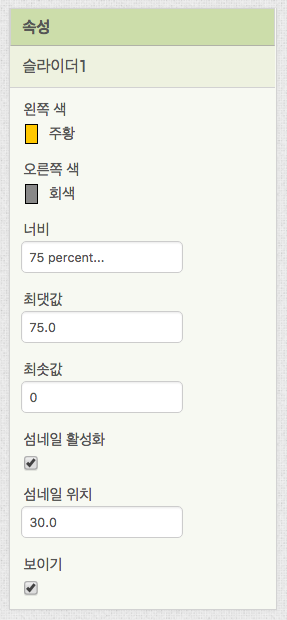
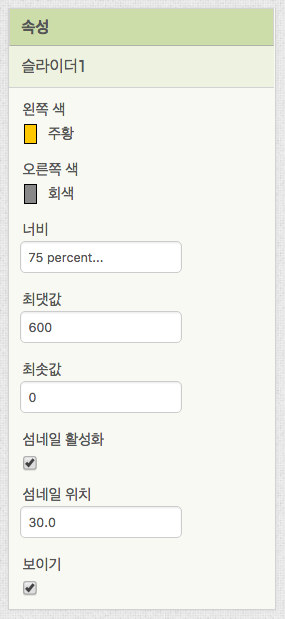
타이머 앱 디자이너 에디터 완료/블록 에디터 초기화 블록 완료

diff --git a/타이머 앱 만들기.md b/타이머 앱 만들기.md
@@ -48,11 +48,79 @@
 6. 슬라이더 컴포넌트를 추가하겠습니다. 팔레트 창의 [사용자 인터페이스] 목록에서 [슬라이더]를 끌어 뷰어 창에 놓습니다. 이 앱에서 슬라이더는 하나 뿐이므로 컴포넌트 이름을 굳이 바꾸지 않아도 됩니다.  
    ![](img/timer_06.png)
 
-7. 슬라이더의 속성을 수정하겠습니다. **너비**는 75퍼센트, **최댓값**은 600, **최솟값**은 0으로 입력합니다.  
+7. 슬라이더의 속성을 수정하겠습니다. **너비**는 75퍼센트, **최댓값**은 600, **최솟값**은 0으로 입력합니다. 최댓값은 슬라이더 섬네일(슬라이더 손잡이)을 왼쪽 끝으로 밀었을 때의 값이고 최솟값은 오른쪽 끝으로 밀었을 때의 값을 의미합니다.  
    ![](img/timer_07.png)
 
-8.  
+8. 다음은 타이머를 시작할 시작 버튼을 추가합니다. 팔레트 창의 [사용자 인터페이스] 목록에서 [버튼]을 찾아 뷰어창에 끌어다 놓습니다. 그리고 추가한 버튼 컴포넌트의 이름을 "시작버튼"으로 수정합니다. 
+   ![](img/timer_08.png)
 
-   
+9. 버튼의 속성을 수정합니다. 버튼의 **배경색**은 흰색, **글꼴 굵게**를 체크, **글꼴 크기** 20,  **텍스트**를 "시작"이라고 입력하고 마지막으로 **텍스트 색상**을 어두운 회색으로 설정합니다.  
+   ![](img/timer_09.png)
 
-   
+10. 타이머 기능을 사용하기 위해서 [시계] 컴포넌트를 가져오겠습니다. 팔레트 창 아래 [센서] 목록에 있는 [시계] 컴포넌트를 찾아 뷰어창에 드래그 합니다. [시계] 컴포넌트는 **보이지 않는 컴포넌트**라서 뷰어 창 안에 나타나지 않고 대신 아래에 별도로 표시됩니다. 그리고 컴포넌트 창에도 제대로 [시계] 컴포넌트가 추가된 것을 볼 수 있습니다.  
+ ![](img/timer_10.png)
+
+11. 이번에는 [소리] 컴포넌트를 추가합니다. 소리 컴포넌트는 팔레트 창의 [미디어] 목록에서 찾을 수 있습니다. [소리] 컴포넌트를 뷰어 창에 끌어다 놓습니다. [소리] 컴포넌트도 [시계] 컴포넌트와 마찬가지로 **보이지 않는 컴포넌트**입니다.  
+    ![](img/timer_11.png)
+
+12. 추가한 소리 컴포넌트가 어떤 소리를 내게 할 것인지 설정하겠습니다. 추가한 "소리1" 컴포넌트를 선택하고 속성 창을 봅니다. **소스**항목이 "없음…"으로 표시되어 있습니다. 이곳을 클릭합니다. 그리고 [파일 올리기…] 버튼을 눌러 새로 뜨는 창에서 [Choose File] 버튼을 눌러 원하는 소리 파일을 찾아준 다음 [확인] 버튼을 누릅니다.  
+    ![](img/timer_12.png) ![](img/timer_12a.png)
+
+13. 필요한 컴포넌트는 모두 추가하였고 미디어 파일도 준비가 되었습니다. 그런데 한 가지 더 설정해야 하는 것이 있습니다. 뷰어에 추가된 컴포넌트들이 모두 왼쪽 상단에 몰려있는데, 이것을 화면 가운데에 정렬 하고자 합니다. 컴포넌트 창에서 추가한 컴포넌트들을 감싸고 있는 [Screen 1]을 선택하여 속성 창을 열어봅니다. 여러 항목들 중 **수평 정렬**과 **수직 정렬** 항목을 각각 "중앙"과 "가운데"로 선택합니다.  
+    ![](img/timer_13.png)
+
+14. 그러자 추가된 컴포넌트들이 화면 가운데에 정렬된 것을 볼 수 있습니다.  
+    ![](img/timer_14.png)
+
+15. [디자이터 에디터]에서 할 일은 모두 끝났습니다. 이제 [블록 에디터]로 넘어가서 타이머의 기능을 완성해 보도록 하겠습니다. 화면 오른쪽 상단에 있는 [블록] 버튼을 눌러주세요.  
+    ![](img/timer_15.png)
+
+    
+
+## 블록으로 프로그래밍 하기
+
+블록으로 프로그래밍을 하기 전에 타이머 앱이 어떻게 동작할 것인지 생각해봅시다. 일반적으로 타이머라고 하면 다음의 순서대로 동작할 것입니다.
+
+1. 앱을 실행한다.
+2. 시간을 설정한다.
+3. 타이머를 시작한다.
+4. 남은 시간이 0초가 되면 알림을 준다.
+
+위 순서를 잘 기억하면서 하나씩 기능을 만들어 보겠습니다.
+
+### 1. 앱 초기화
+
+사용자가 시작 버튼을 누르지도 않았는데 제멋대로 동작하면 안되겠지요? 앱이 처음 실행하고나면 사용자가 타이머를 사용할 수 있도록 준비하고 있어야 합니다. 
+
+1. 블록 창에서 [Screen 1] 컴포넌트를 클릭하여 블록들을 꺼내봅니다. 그 중에서 [언제 Screen 1. 초기화]라는 블록을 뷰어 창에 끌어다 놓아주세요.  
+   ![](img/timer_b_1-01.png)
+2. 이 블록은 앱이 처음 실행될 때 한 번만 동작하는 블록입니다. 사용자가 타이머 앱을 사용할 수 있도록 준비하는 내용이 들어가야 합니다. 우선 타이머가 저절로 움직이면 안되므로 확실하게 타이머를 멈춰주는 블록을 끼워넣도록 하겠습니다.  
+   ![](img/timer_b_1-02.png)
+3. 블록 창에서 [시계1] 컴포넌트를 클릭하여 [시계1]에 속해있는 블록들을 열어봅니다. 많은 블록들 중에서 타이머를 멈춰주는 블록을 찾아보겠습니다. 마우스 스크롤을 이용해서 아래로 내려가면 짙은 초록색 블록들이 보입니다. 짙은 초록색 블록은 타이머의 속성 값을 설정하는 블록인데 지금 필요한 것은 [**지정하기** 시계1.타이머 활성 여부] 블록입니다. 이 블록을 꺼내어 앞서 꺼내놓은 Screen1 초기화 블록에 끼워줍니다.  
+   ![](img/timer_b_1-03.png) ![](img/timer_b_1-03a.png)
+4. 이 상태로는 아직 타이머가 작동해야하는지 안해야하는지 알 수 없습니다. [지정하기 시계1.타이머 활성 여부]라는 블록을 잘 살펴보면 오른쪽 끝에 "값"이라고 적혀있고 추가로 블록을 끼워넣을 수 있게 만들어져 있습니다. 이곳에 [거짓]이라는 블록을 끼워넣으면 타이머가 멈춰집니다. [거짓]블록은 블록 창에서 [공통 블록] 아래에 있는 [논리]를 클릭하면 찾을 수 있습니다.  
+   ![](img/timer_b_1-04.png)
+5. 다음은 앱이 실행 되었을 때 남은 시간은 0초로 나타나고 남은 시간에 맞게 슬라이더 위치도 0의 위치로 옮겨지도록 하겠습니다. 그러기 위해서 우선 타이머의 남은 시간 값을 임시로 저장하기 위해서 '변수'라는 것을 이용하겠습니다. 블록 창의 [공통 블록] 아래 [변수] 항목을 눌러 변수와 관련된 블록들을 열어봅니다. 그 중 [전역변수 초기화]라는 블록을 끌어다 뷰어 창에 놓습니다.  
+   ![](img/timer_b_1-05.png)
+6. 변수는 이름을 지어줄 수 있습니다. 블록을 살펴보면 글씨의 색이 다른 부분이 있습니다. 이곳을 클릭하여 이 변수의 이름을 "남은 시간"이리고 수정해줍니다.  
+   ![](img/timer_b_1-06.png)
+7. 그런 다음 이 변수의 초기화값으로 숫자 0을 넣어줍니다. 숫자를 입력하기 위해서 블록 창의 [공통 블록] 아래 [수학] 항목을 눌러봅니다. 수학에 관련한 많은 블록들을 볼 수 있을텐데요, 맨 위에 "0"이라는 숫자가 적혀있는 작은 블록을 끌어다 변수 값에 끼워 넣습니다.  
+   ![](img/timer_b_1-07.png)
+8. 이제 이 변수를 이용해서 [시간 레이블]에 "0초"라는 텍스트가 표시되도록 하겠습니다. 블록 창에서 [시간 레이블]를 클릭한 다음 짙은 초록색 블록 중 [**지정하기** 시간 레이블.텍스트]라는 블록을 찾아 [**언제** Screen1**.초기화**] 블록에 안으로 가져옵니다.  
+   ![](img/timer_b_1-08.png)
+9. 변수 [남은 시간]의 값을 가져오도록 하겠습니다. 값을 가져오는 방법은 두 가지가 있습니다. 하나는 볼록 창에서 [공통 블록] 아래 [변수] 항목을 클릭하여 [**가져오기**] 블록을 끌어다 놓고 이름 부분을 눌러 원하는 변수 값을 선택하는 방법입니다. 두 번째 방법은 앞서 만든 [**전역변수 초기화** 남은 시간] 블록의 이름 부분에 마우스를 놓고 기다리면 뜨는 블록을 가져오는 방법입니다.  
+   ![](img/timer_b_1-09.png)
+10. 이 [**가져오기** global 남은 시간] 블록을 [**지정하기** 시간 레이블.텍스트] 블록의 값에 끼워넣습니다. 그러면 [시간 레이블]의 텍스트 값이 "0"이 됩니다.   
+    ![](img/timer_b_1-10.png)
+11. 하지만 우리가 원했던 텍스트는 "0초"였습니다. 뒤에 "초"라는 글자가 더해져야 합니다. 이를 위해서는 텍스트를 다루는 블록을 사용합니다. 블록 창에서 [공통 블록] 아래 [텍스트]라는 항목이 있습니다. 클릭 해보면 텍스트를 다룰 수 있는 블록들이 나타나는데 이 중에서 [**"**  **"**]라는 빈 텍스트 블록을 가져옵니다.  
+    ![](img/timer_b_1-11.png)
+12. 그 다음 다시 [텍스트]항목을 눌러 [**합치기**]라는 블록을 꺼내옵니다. 이 블록은 입력된 여러 텍스트를 하나의 텍스트로 합쳐주는 역할을 합니다. 첫번째 값으로는 변수 [남은 시간]의 값을 끼워주고, 두 번째 값에다가 바로 앞에서 꺼내온 빈 텍스트 블록을 끼워 넣습니다. 그리고 빈 텍스트 블록의 빈 부분을 클릭하여 우리가 원하는 "초"라는 글자를 입력합니다. 이렇게 해서 [시간 레이블]의 텍스트 값이 "0초"라는 값으로 초기화 할 수 있게 되었습니다.
+    ![](img/timer_b_1-12.png)
+13. 초기화 작업의 마지막으로 [슬라이더1]의 섬네일 위치를 0으로 맞춰주도록 하겠습니다. 블록 창에서 [슬라이더1] 컴포넌트를 클릭하여 짙은 초록색 블록인 [**지정하기** 슬라이더1.섬에일 위치] 블록을 찾습니다. 이 블록을 [[**언제** Screen1**.초기화**] 속에 집어 넣습니다.  
+    ![](img/timer_b_1-13.png)
+14. [**지정하기** 슬라이덥.섬네일 위치] 블록에 변수 [남은 시간]의 값을 입력하도록 합니다. 앞서 했던 방법과 똑같이 [**가져오기** global 남은 시간] 블록을 꺼내와 입력합니다.  
+    ![](img/timer_b_1-14.png)
+15. 이렇게해서 타이머 앱의 초기화 작업을 모두 끝냈습니다. 다음은 슬라이더 섬네일을 움직여서 시간을 설정하는 방법을 설명하겠습니다.
+
+### 슬라이더로 시간 설정하기
+
